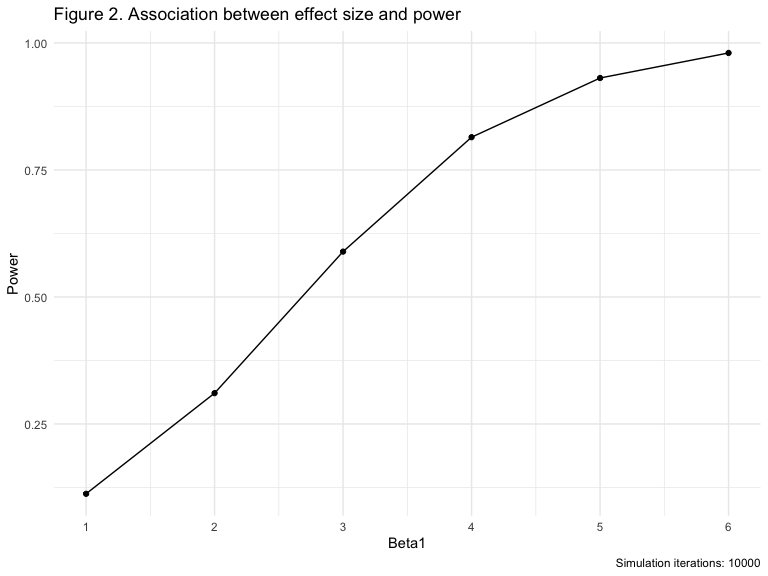
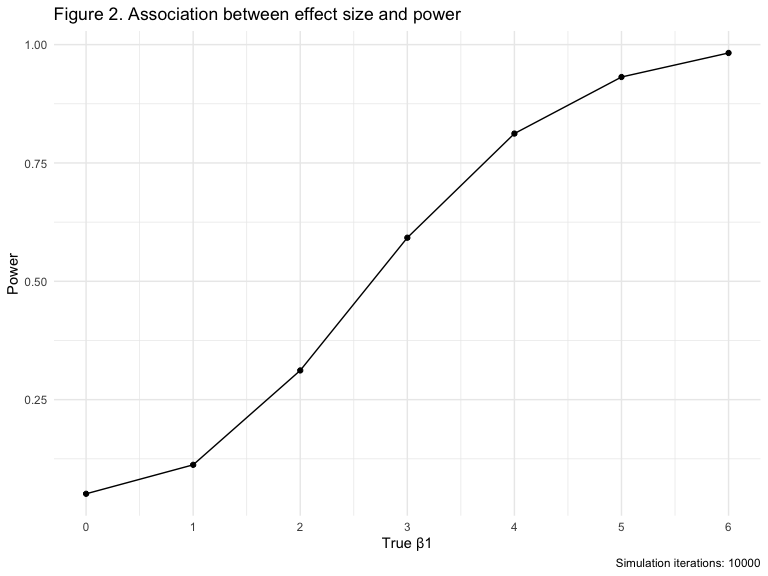
q3 - comment; q1 - complementary plot

diff --git a/p8105_hw5_dz2426.md b/p8105_hw5_dz2426.md
@@ -111,13 +111,25 @@ q2_df %>%
   facet_grid(~group) +
   labs(x = "Week", 
        y = "Observation",
-       title = "Figure 1. Observations on each subject over time"
+       title = "Figure 1.1 Observations on each subject over time (two-panel)"
     ) +
   scale_color_discrete(name = "Subject ID") +
   theme(strip.text = element_text(size = 12, face = 'bold'))
 ```
 
 <img src="p8105_hw5_dz2426_files/figure-gfm/unnamed-chunk-4-1.png" width="100%" />
+
+``` r
+q2_df %>% 
+  ggplot(aes(x = week, y = observation, group = file_names, color = group)) +
+  geom_line() + 
+  labs(x = "Week", 
+       y = "Observation",
+       title = "Figure 1.2 Observations on each subject over time (combined)"
+    )
+```
+
+<img src="p8105_hw5_dz2426_files/figure-gfm/unnamed-chunk-4-2.png" width="100%" />
 
 **Comments:**  
 The spaghetti plot shows larger values for subjects in experimental
@@ -151,9 +163,9 @@ lm_rerun = rerun(10000, sim_regression(n = 30, beta1 = 0)) %>%
 ```
 
 ``` r
-# Map all 6 beta1 values into the output
+# Map all 7 beta1 values into the output
 sim_result_beta1s = 
-  tibble(beta1s = c(1:6)) %>% 
+  tibble(beta1s = c(0:6)) %>% 
   mutate(
     output_list = map(.x = beta1s, ~rerun(10000, sim_regression(n = 30, beta1 = .x))), 
     output_df = map(output_list, bind_rows)
@@ -179,9 +191,9 @@ q3_plot1 %>%
   ggplot(aes(x = beta1s, y = proportion)) + 
   geom_point() +
   geom_line() +
-  scale_x_continuous(breaks = seq(1, 6, by = 1)) +
+  scale_x_continuous(breaks = seq(0, 6, by = 1)) +
   labs(
-    x = "Beta1", y = "Power", 
+    x = "True β1", y = "Power", 
     title = "Figure 2. Association between effect size and power",
     caption = "Simulation iterations: 10000"
   )
@@ -191,7 +203,8 @@ q3_plot1 %>%
 
 **Comments:**  
 The plot shows a positive association between the power of test and
-effect size. The power increases as the effect size increases.
+effect size. The power of detecting false null hypothesis increases as
+the effect size increases.
 
 ``` r
 q3_plot2 = sim_result_beta1s %>% 
@@ -218,14 +231,14 @@ ggplot(q3_plot2, aes(x = beta1s)) +
   geom_point(data = q3_plot3, aes(y = mean_beta1_hat)) +
   geom_line(data = q3_plot2, aes(y = mean_beta1_hat, color = 'All samples')) +
   geom_line(data = q3_plot3, aes(y = mean_beta1_hat, color = 'Samples with H0 rejected')) +
-  scale_x_continuous(breaks = seq(1, 6, by = 1)) +
-  scale_y_continuous(breaks = seq(1, 6, by = 0.2)) + 
+  scale_x_continuous(breaks = seq(0, 6, by = 1)) +
+  scale_y_continuous(breaks = seq(0, 6, by = 0.2)) + 
   labs(
-    x = "Beta1", y = "Average beta1 estimate", 
-    title = "Figure 3. Association between average beta1 estimate and true beta1",
+    x = "True β1", y = "Average β1 estimate", 
+    title = "Figure 3. Association between average β1 estimate and true β1",
     caption = "Simulation iterations: 10000"
   ) +
-  scale_colour_discrete(name = "line")
+  scale_colour_discrete(name = "Line:")
 ```
 
 <img src="p8105_hw5_dz2426_files/figure-gfm/unnamed-chunk-9-1.png" width="100%" />
@@ -233,4 +246,10 @@ ggplot(q3_plot2, aes(x = beta1s)) +
 **Comments:** The sample average of beta1 estimate across tests for
 which the null is rejected is approaching the true beta1 value as beta1
 increases.  
-At small beta1 value,
+At small beta1 value, the power of detecting false H0 is small and the
+average beta1 estimate has small sample sizes of which p-value\<0.05.
+Thus, it has a larger deviation between average beta1 estimate and true
+beta1. As effect size increases, the power of detecting false H0
+increases and the average beta1 estimate has larger sample sizes of
+which p-value \< 0.05. Therefore, the estimate is approximately true
+beta1 when beta1 = 6.
